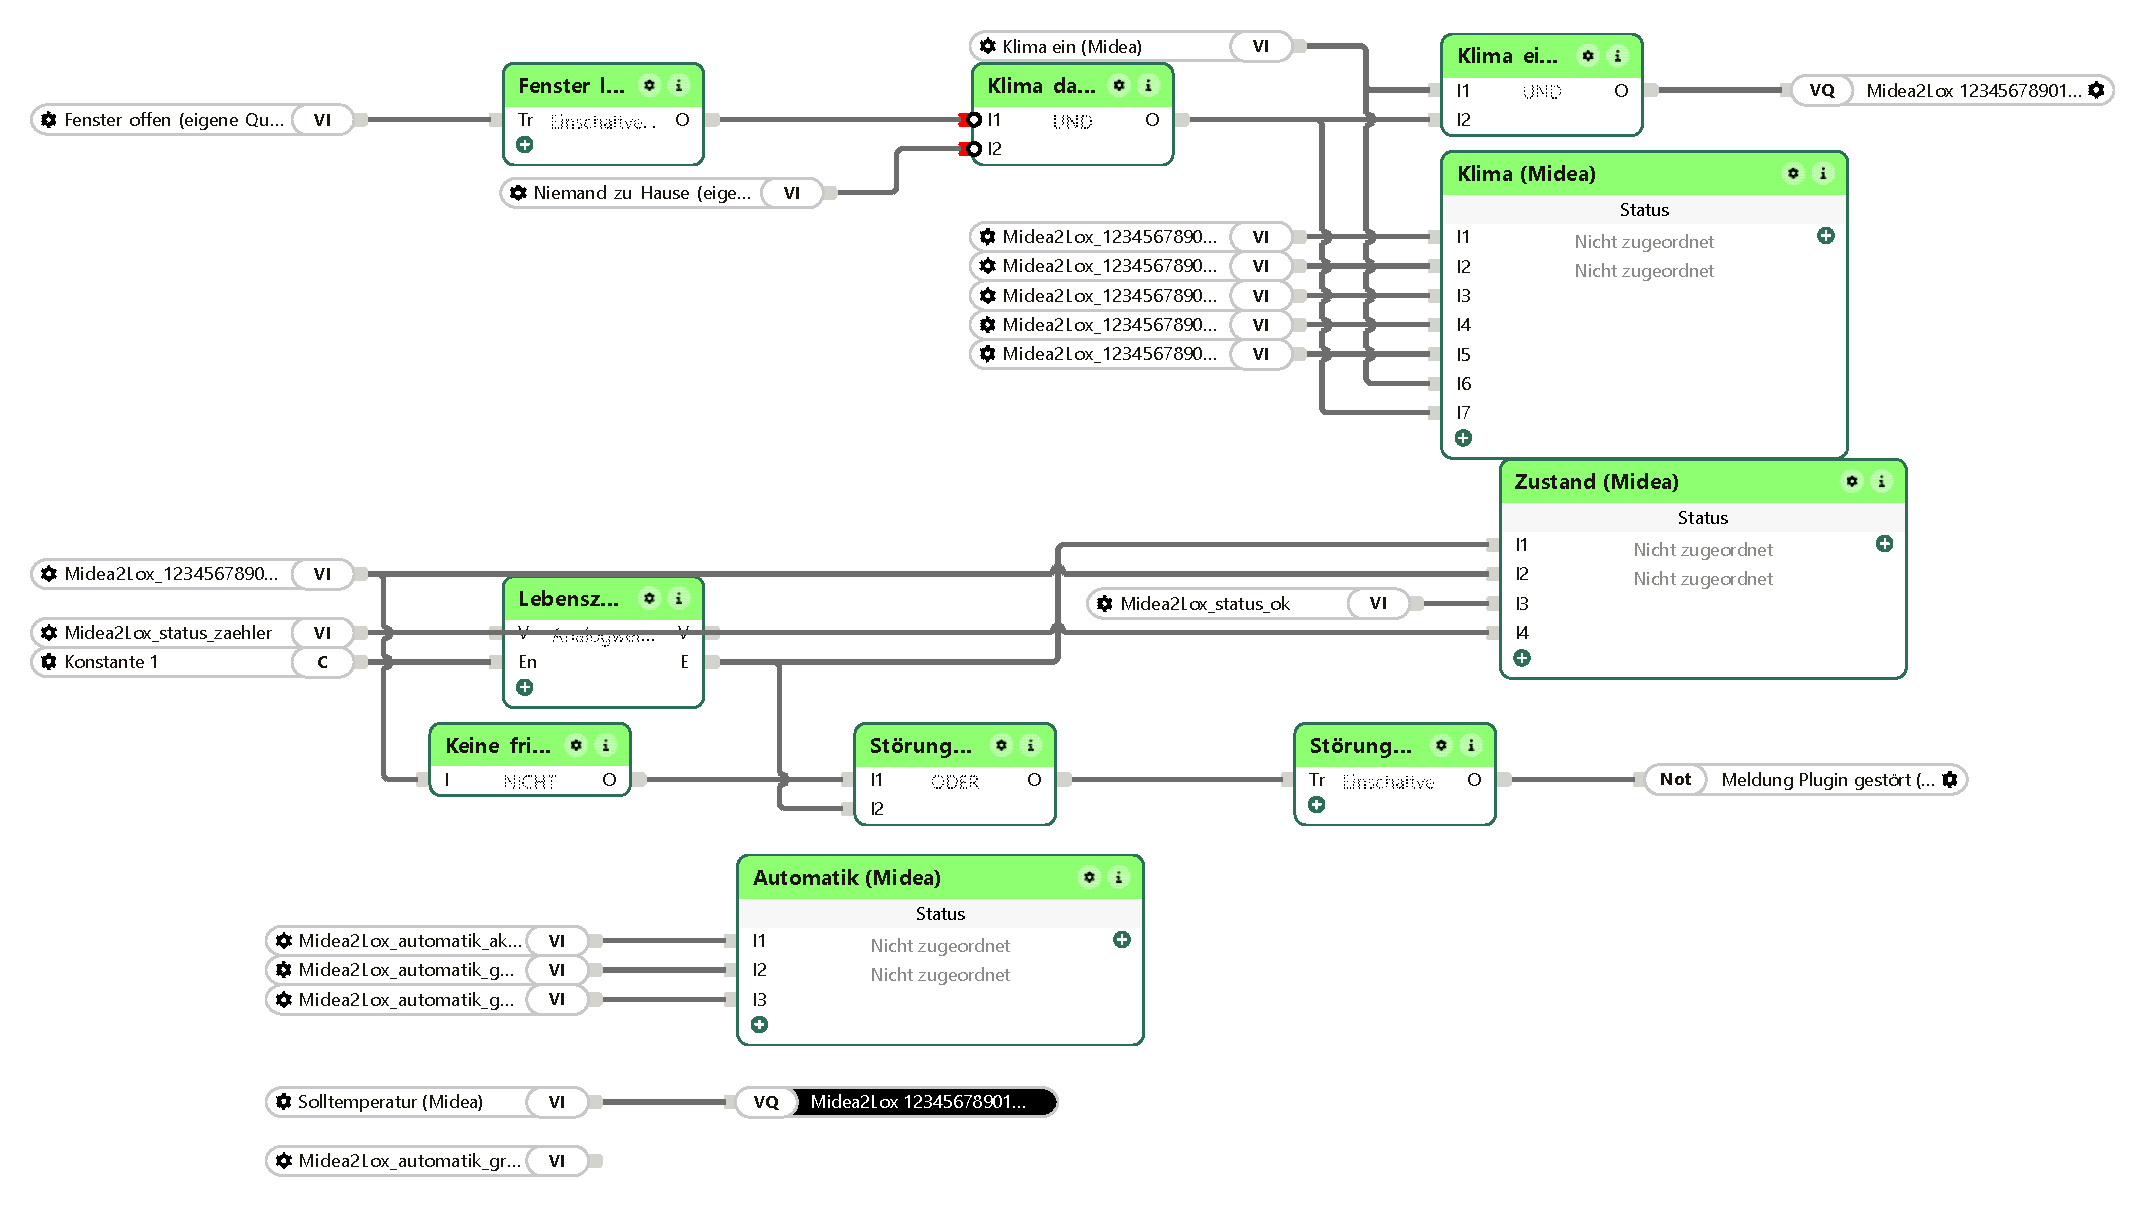
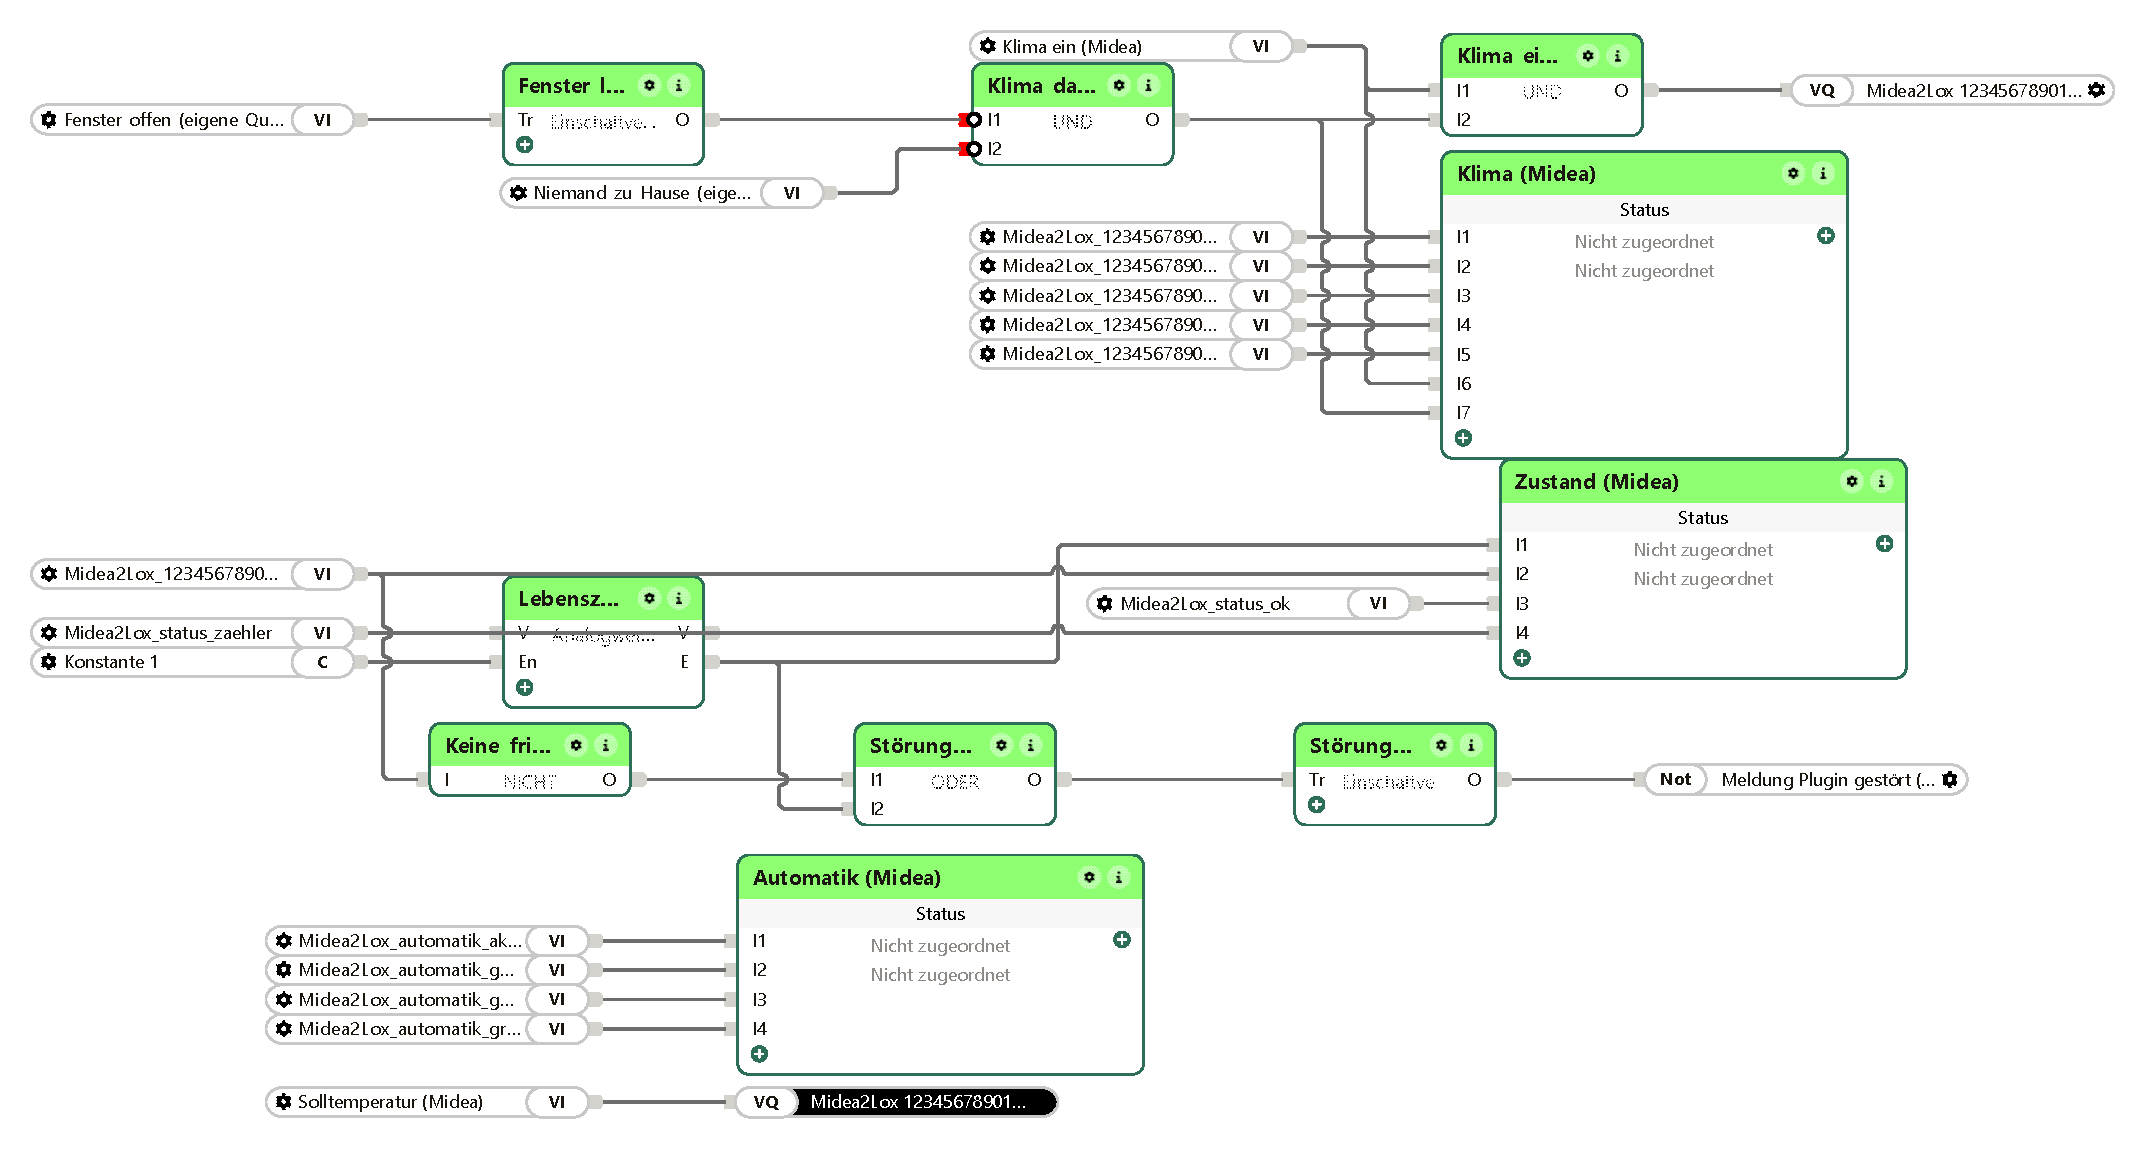
Midea2Lox 4.5.16: Textnachzug: Automatik-Status zeigt den Grund (Texteingang an V4)
Textnachzug zum Musterprojekt, Reiter **Einbindung in Loxone**, Seite „Midea2Lox“:

* Der Status „Automatik (Midea)“ (Nr. 30) zeigt den Grund der Automatik jetzt selbst: der Virtuelle
  Texteingang `Midea2Lox_automatik_grund` (Nr. 29) liegt an V4 des Status und erscheint in den Zeilen
  „greift“ und „greift nicht“ als `<v4>`. Tabelle und Bild der Seite sind nachgezogen.
* **Kein Neuimport nötig** – die Vorlagen sind unverändert. Wer die Seite schon nachgebaut hat, legt im
  eigenen Projekt den Texteingang `Midea2Lox_automatik_grund` an V4 des Status „Automatik (Midea)“ und
  übernimmt die beiden Statuszeilen aus der Tabelle.
* Der Dienst ist unverändert.

Changed region(s): [[0.0, 0.0, 0.9995, 0.9748]]

diff --git a/README.md b/README.md
@@ -10,6 +10,18 @@ Integration von Klimaanlagen der Midea-Gruppe in Loxone — als LoxBerry-Plugin.
 > Was sich gegenüber 3.4.8 geändert hat, steht in den Release-Beschreibungen
 > ab 4.0.0.
 
+## Neu in 4.5.16
+
+Textnachzug zum Musterprojekt, Reiter **Einbindung in Loxone**, Seite „Midea2Lox“:
+
+* Der Status „Automatik (Midea)“ (Nr. 30) zeigt den Grund der Automatik jetzt selbst: der Virtuelle
+  Texteingang `Midea2Lox_automatik_grund` (Nr. 29) liegt an V4 des Status und erscheint in den Zeilen
+  „greift“ und „greift nicht“ als `<v4>`. Tabelle und Bild der Seite sind nachgezogen.
+* **Kein Neuimport nötig** – die Vorlagen sind unverändert. Wer die Seite schon nachgebaut hat, legt im
+  eigenen Projekt den Texteingang `Midea2Lox_automatik_grund` an V4 des Status „Automatik (Midea)“ und
+  übernimmt die beiden Statuszeilen aus der Tabelle.
+* Der Dienst ist unverändert.
+
 ## Neu in 4.5.15
 
 Einbindung in Loxone in Vollausstattung: drei Seiten aus dem LoxBerry-Plugins Musterprojekt mit drei Bildern und
